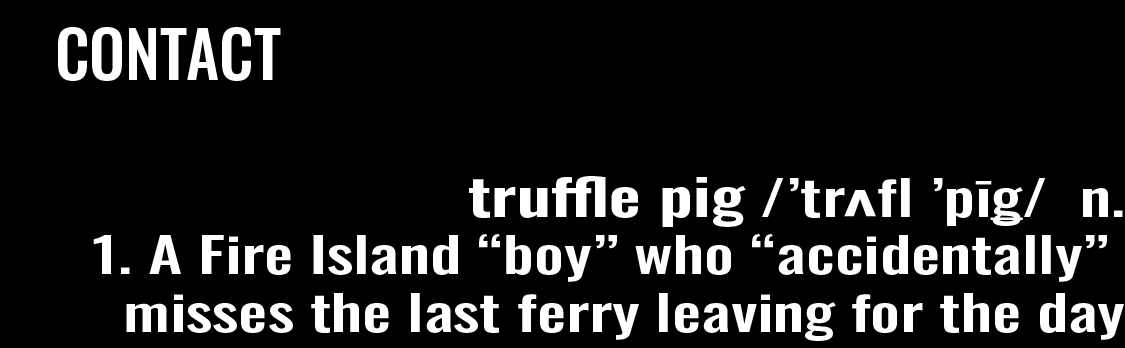
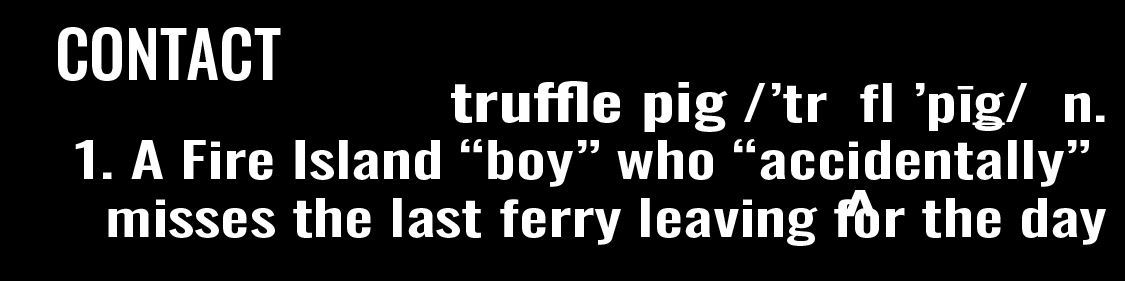
Fix item alignment

Changed region(s): [[0.0622, 0.484, 1.0, 0.9964], [0.4044, 0.2847, 0.9956, 0.484], [0.0311, 0.0569, 0.2489, 0.2847]]

diff --git a/mobile.css b/mobile.css
@@ -13,6 +13,7 @@ a, p, option {
     position: sticky;
     z-index: 1;
     background: #ffffff;
+    align-items: center;
 }
 
 .footer {
@@ -30,6 +31,7 @@ a, p, option {
    /* add back negative margin value */
    padding: 0.25rem 9999rem;
    background: rgb(0, 0, 0);
+   align-items: center;
  }
 
 .top_header {
@@ -47,6 +49,7 @@ a, p, option {
 .main_fields {
    position: relative;
    display: block;
+   align-items: center;
    /*left: 412px;*/
    margin-top: 140px;
    padding: 10px;

diff --git a/index-mobile.html b/index-mobile.html
@@ -46,7 +46,6 @@
     </div>
 
     <div class="row mt-md-4">
-  <div class="col col-md-1"></div>
   <div class="col col-md-7 main_fields_margin">
   <div class='main_fields'>
   <section class='userInput'>
